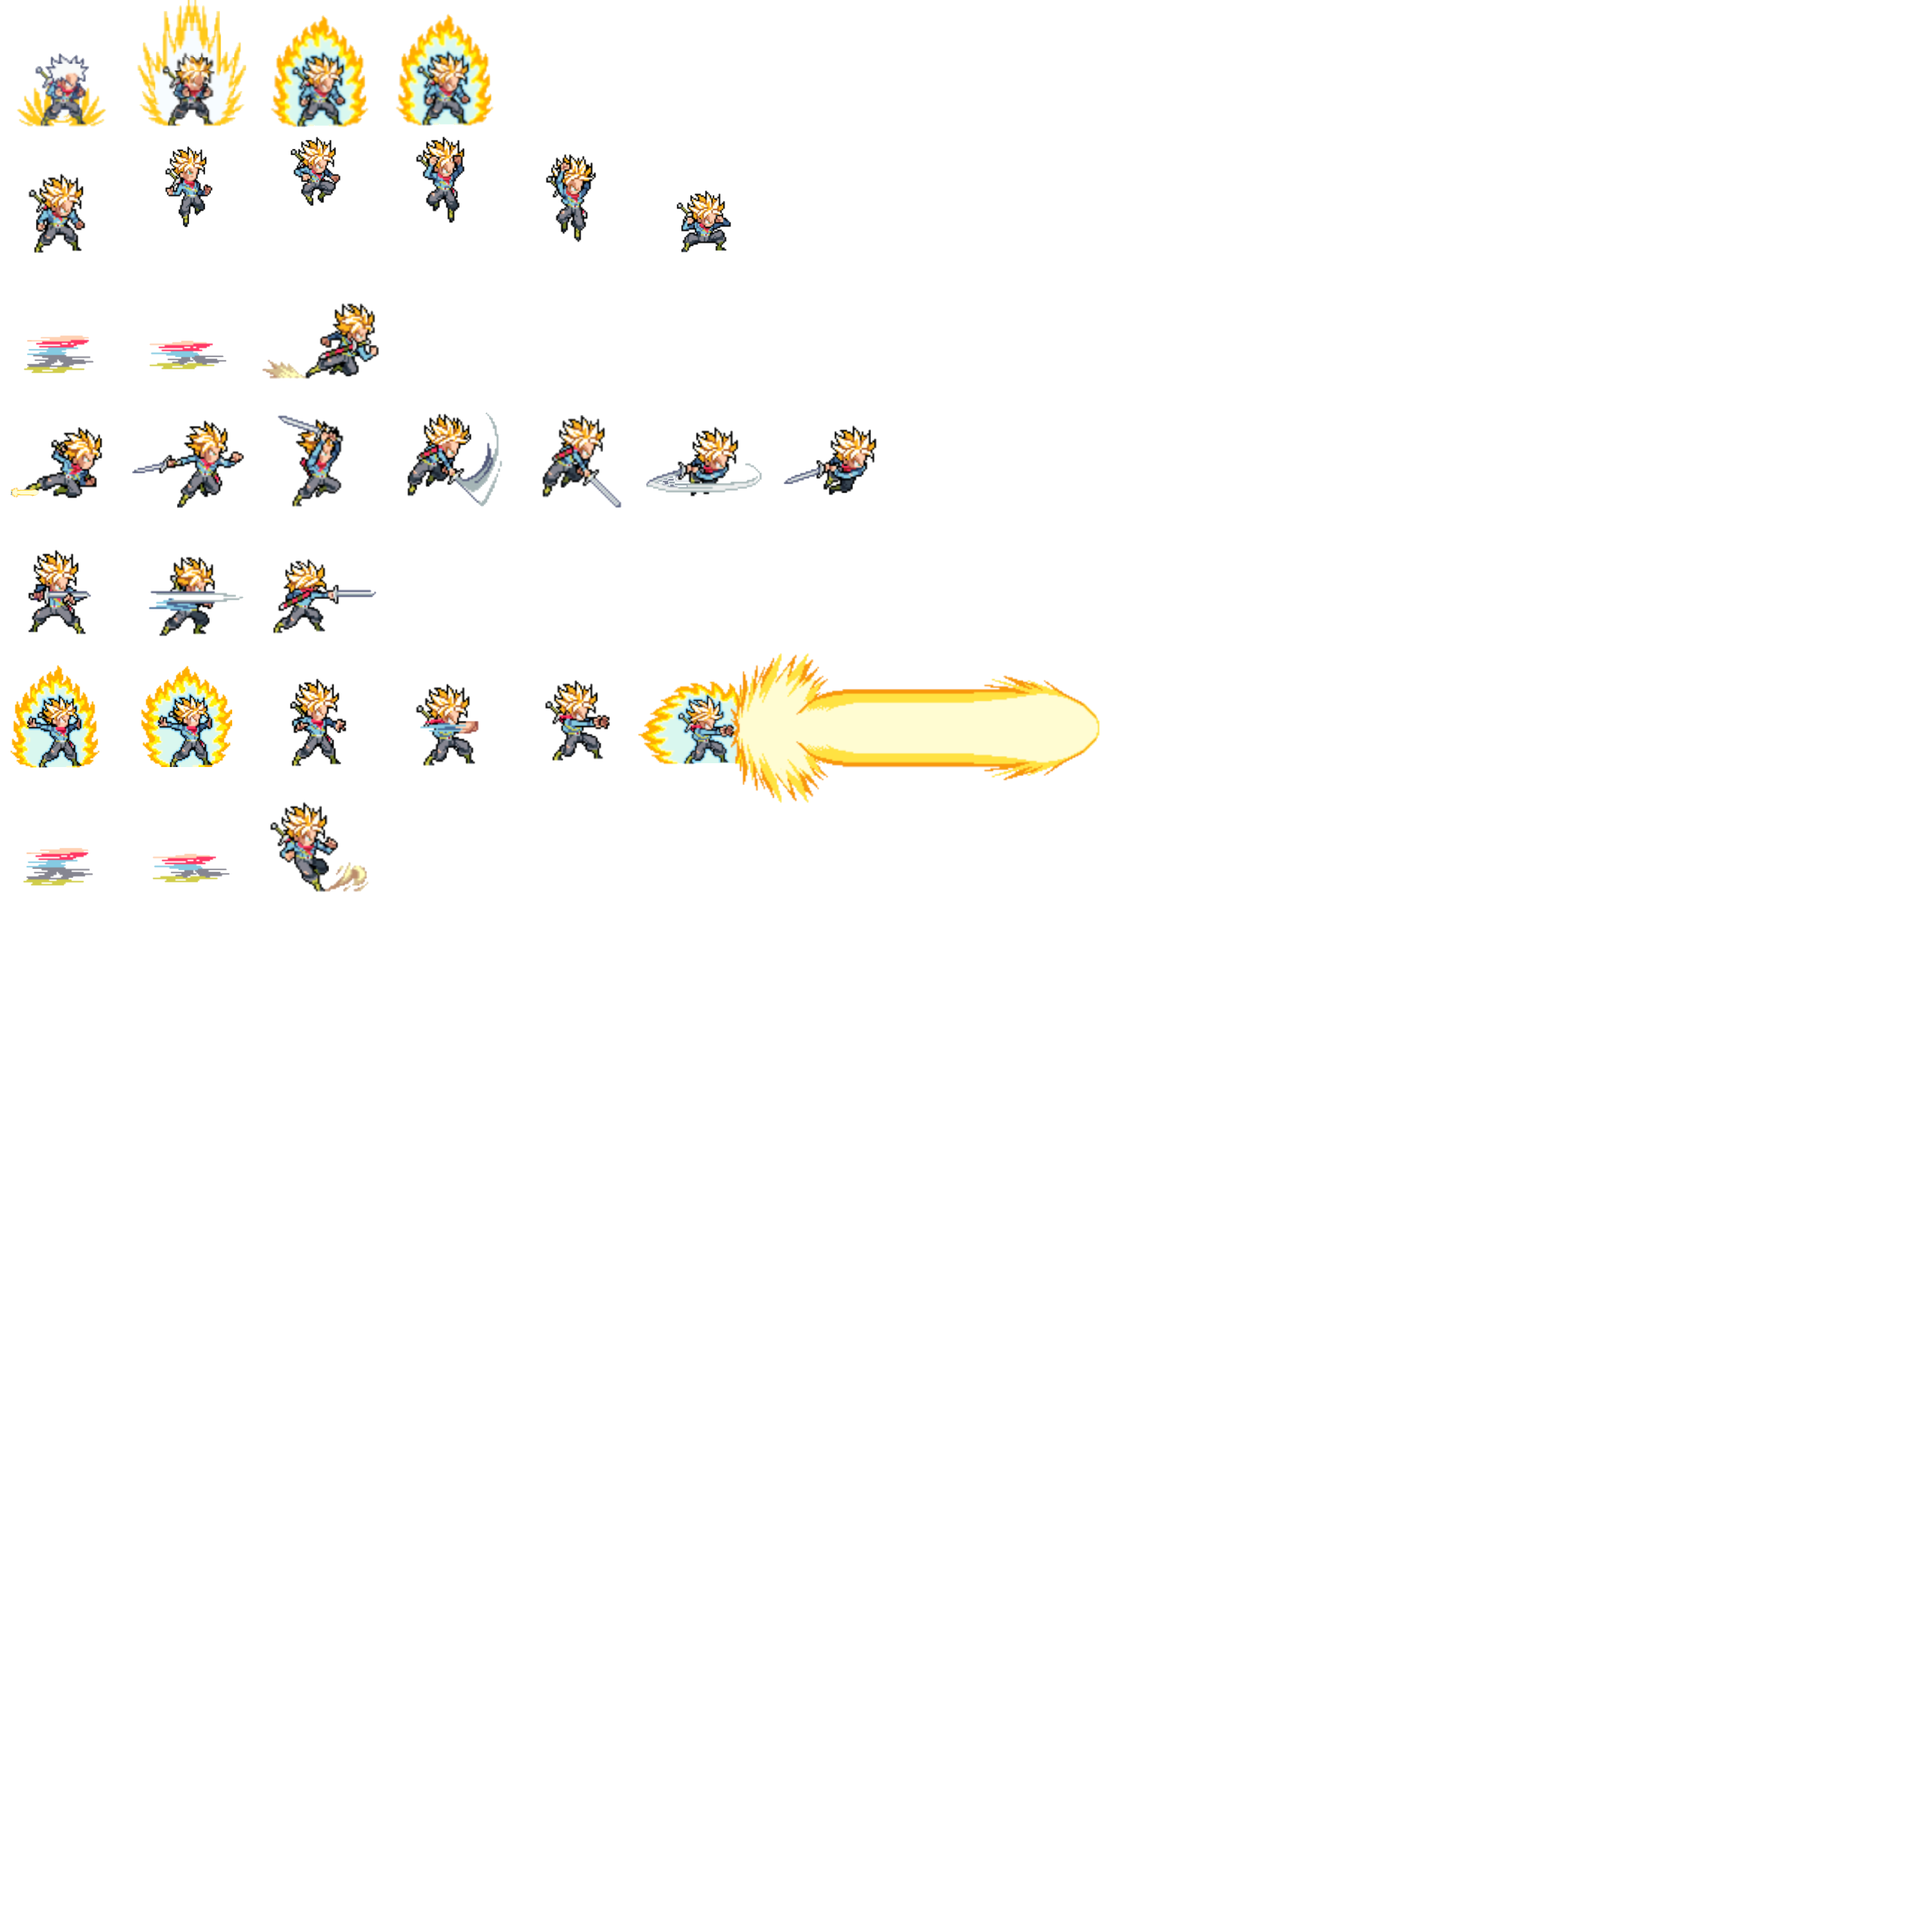
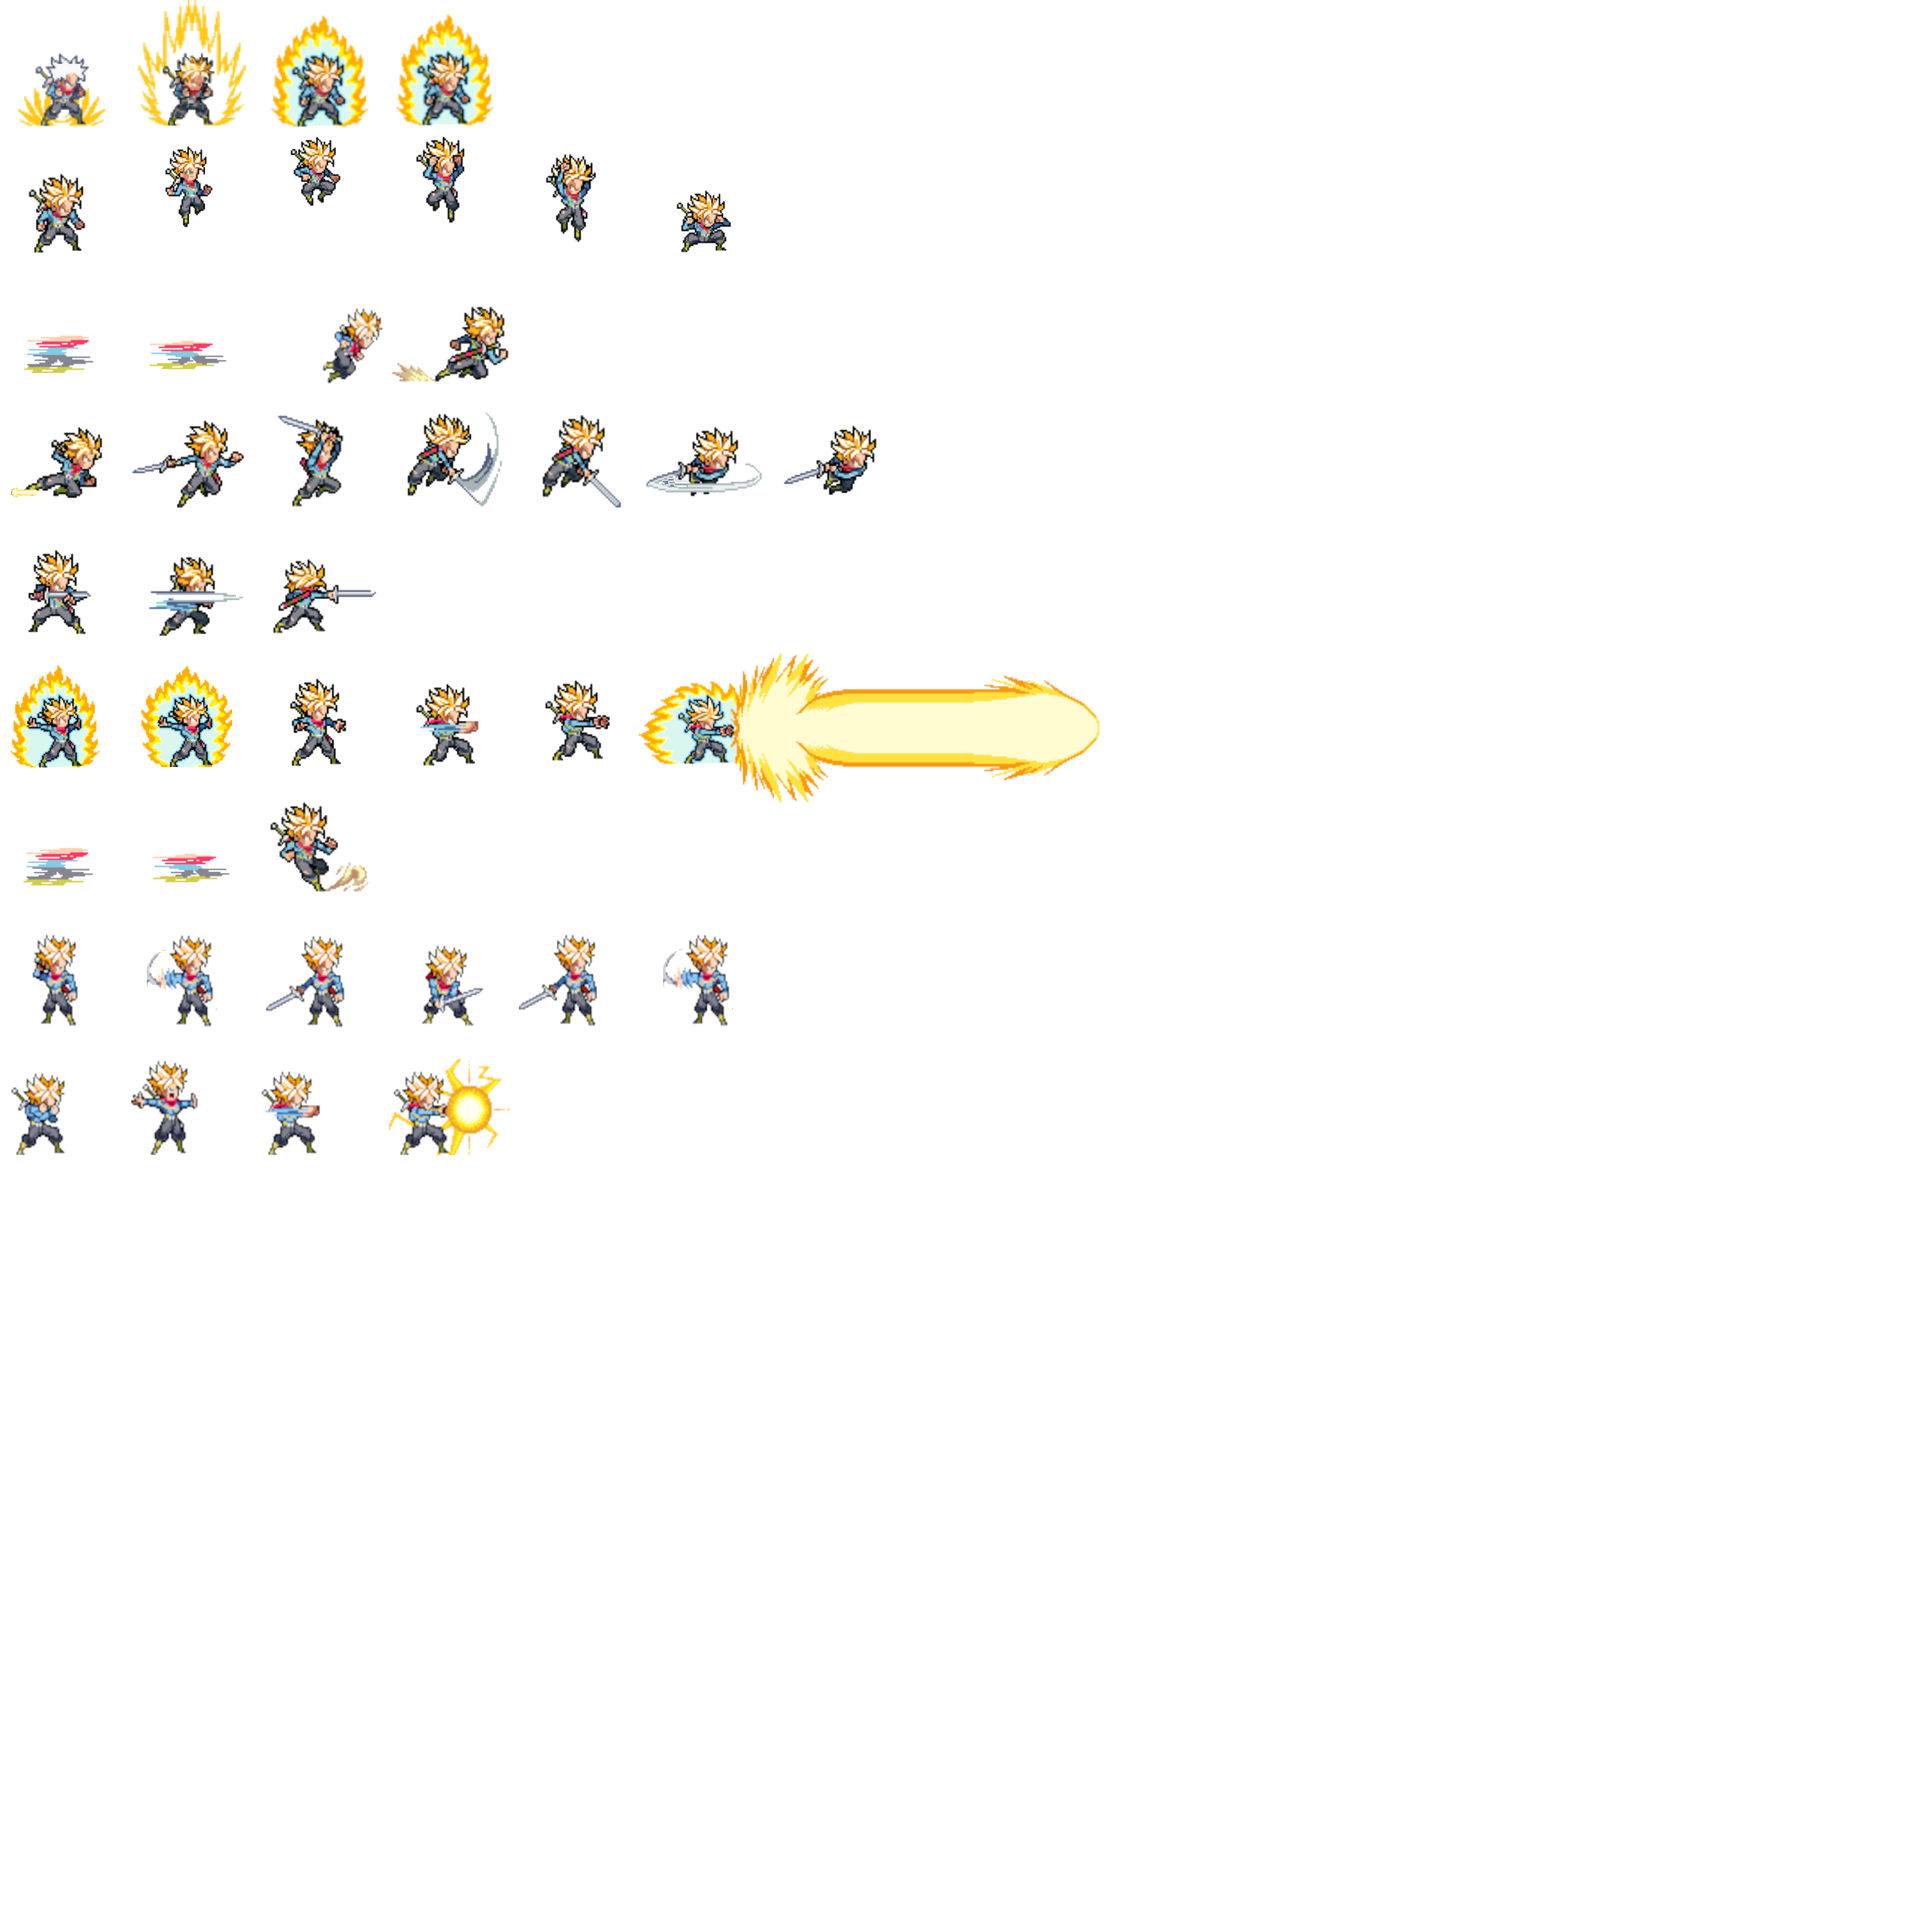
Add files via upload

diff --git a/script.js b/script.js
@@ -1,4 +1,4 @@
-let playerState = "Power";
+let playerState = "Idle";
 const dropdown = document.getElementById("animations");
 dropdown.addEventListener("change", function(e){
     playerState = e.target.value;
@@ -31,7 +31,7 @@ const animationStates = [
     },
     {
         name: "MoveR",
-        frames: 3,
+        frames: 4,
     },
     {
         name: "Attack1",
@@ -48,6 +48,14 @@ const animationStates = [
     {
         name: "MoveL",
         frames: 3,
+    },
+    {
+        name: "Idle",
+        frames: 4,
+    },
+    {
+        name: "Attack4",
+        frames: 4,
     },
 ];
 

diff --git a/index.html b/index.html
@@ -18,6 +18,8 @@
             <option value="Attack2">Attack2</option>
             <option value="Attack3">Attack3</option>
             <option value="MoveL">MoveL</option>
+            <option value="Idle">Idle</option>
+            <option value="Attack4">Attack4</option>
         </select>
     </div>
     <script src="script.js"></script>

diff --git a/style.css b/style.css
@@ -15,5 +15,5 @@
     transform: translateX(-50%);
 }
 .controls, select, option {
-    font-size: 25px;
+    font-size: 15px;
 }
